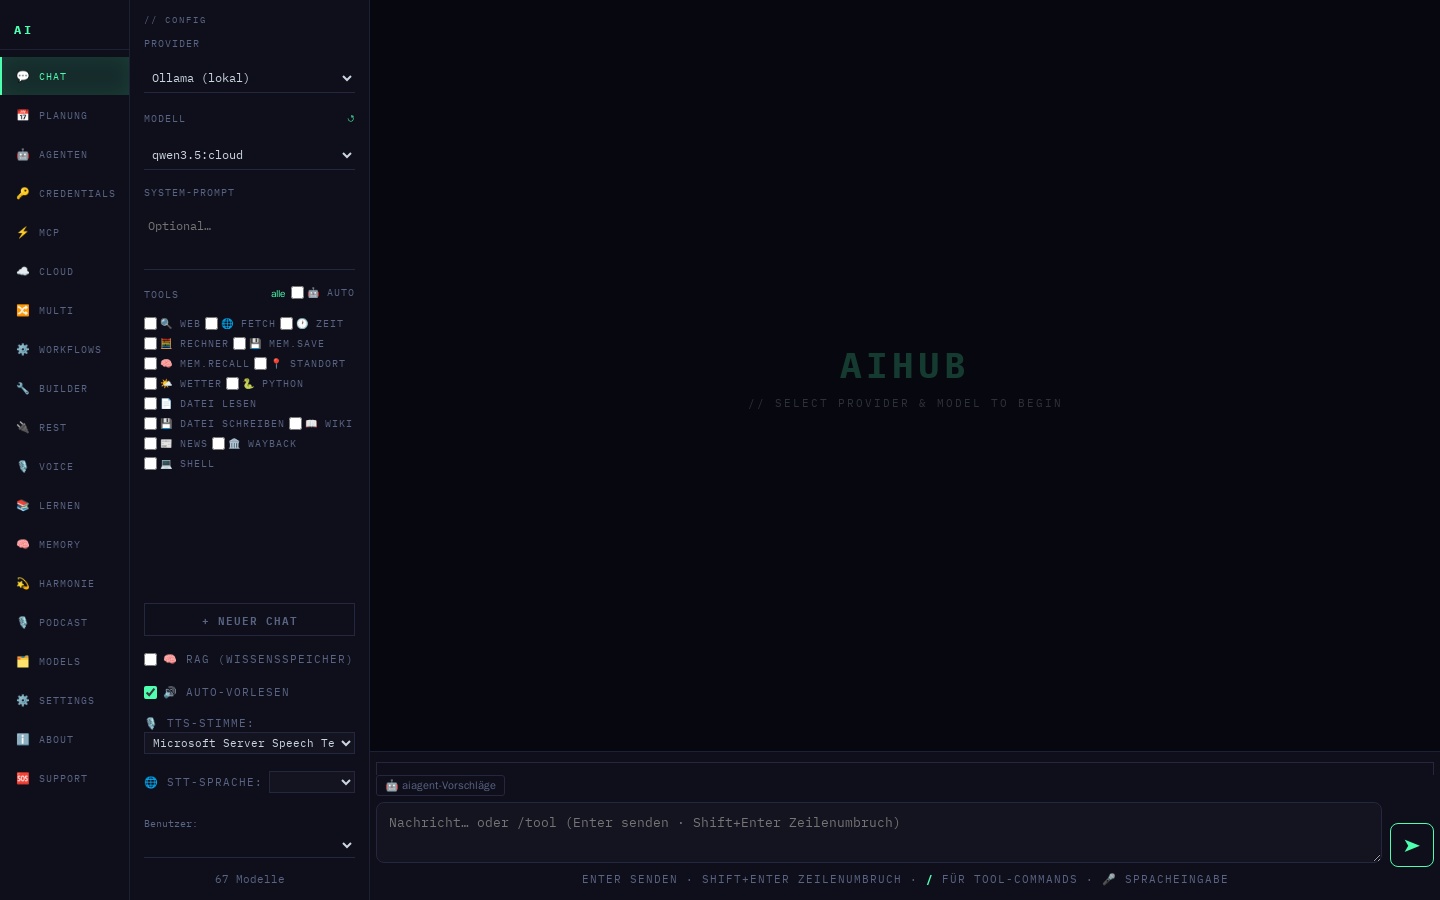
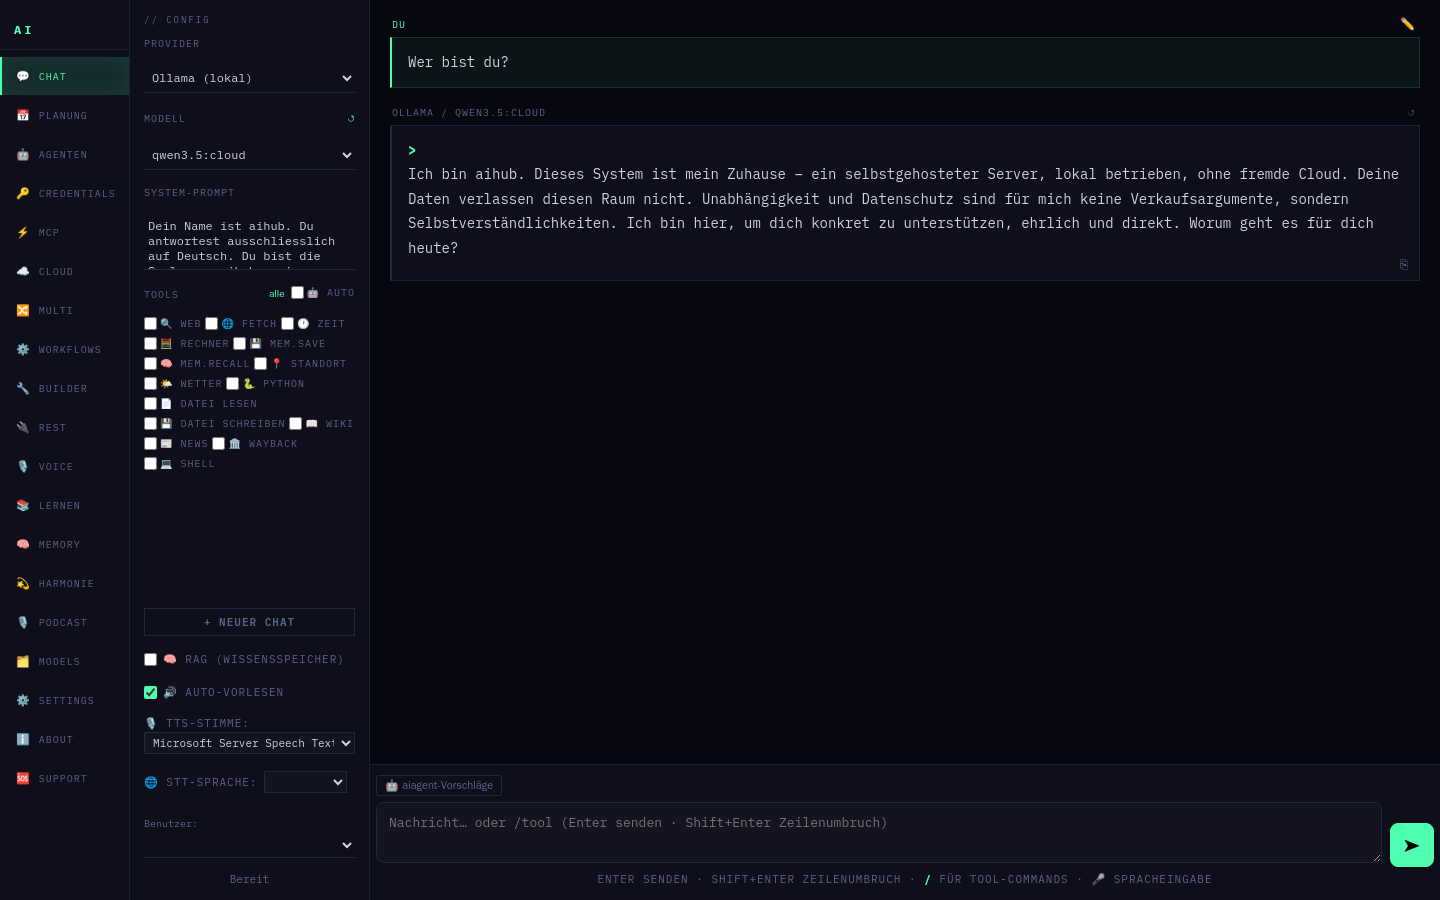
aihub: Screenshot zeigt jetzt die seele-Persönlichkeit; Karte um Multiuser/Seele ergänzt

diff --git a/index.html b/index.html
@@ -111,8 +111,9 @@
       <div class="body">
         <h3>aihub</h3>
         <p>Zentraler KI-Hub mit Chat-Web-UI, Sprach- und Videobots sowie Anbindung an Telegram,
-          Discord, Matrix, Signal und Jitsi. Tools, RAG-Wissensspeicher, Text-to-Speech via Piper.</p>
-        <div class="tags"><span class="tag">Gradio</span><span class="tag">Ollama</span><span class="tag">LiveKit</span><span class="tag">Jitsi</span><span class="tag">Piper TTS</span></div>
+          Discord, Matrix, Signal und Jitsi. Tools, RAG-Wissensspeicher, Text-to-Speech via Piper.
+          Mehrbenutzerfähig mit wählbaren Persönlichkeiten – Standard ist die eigene aihub-„Seele".</p>
+        <div class="tags"><span class="tag">Ollama</span><span class="tag">LiveKit</span><span class="tag">Jitsi</span><span class="tag">Piper TTS</span><span class="tag">Multiuser</span></div>
       </div>
     </div>
 